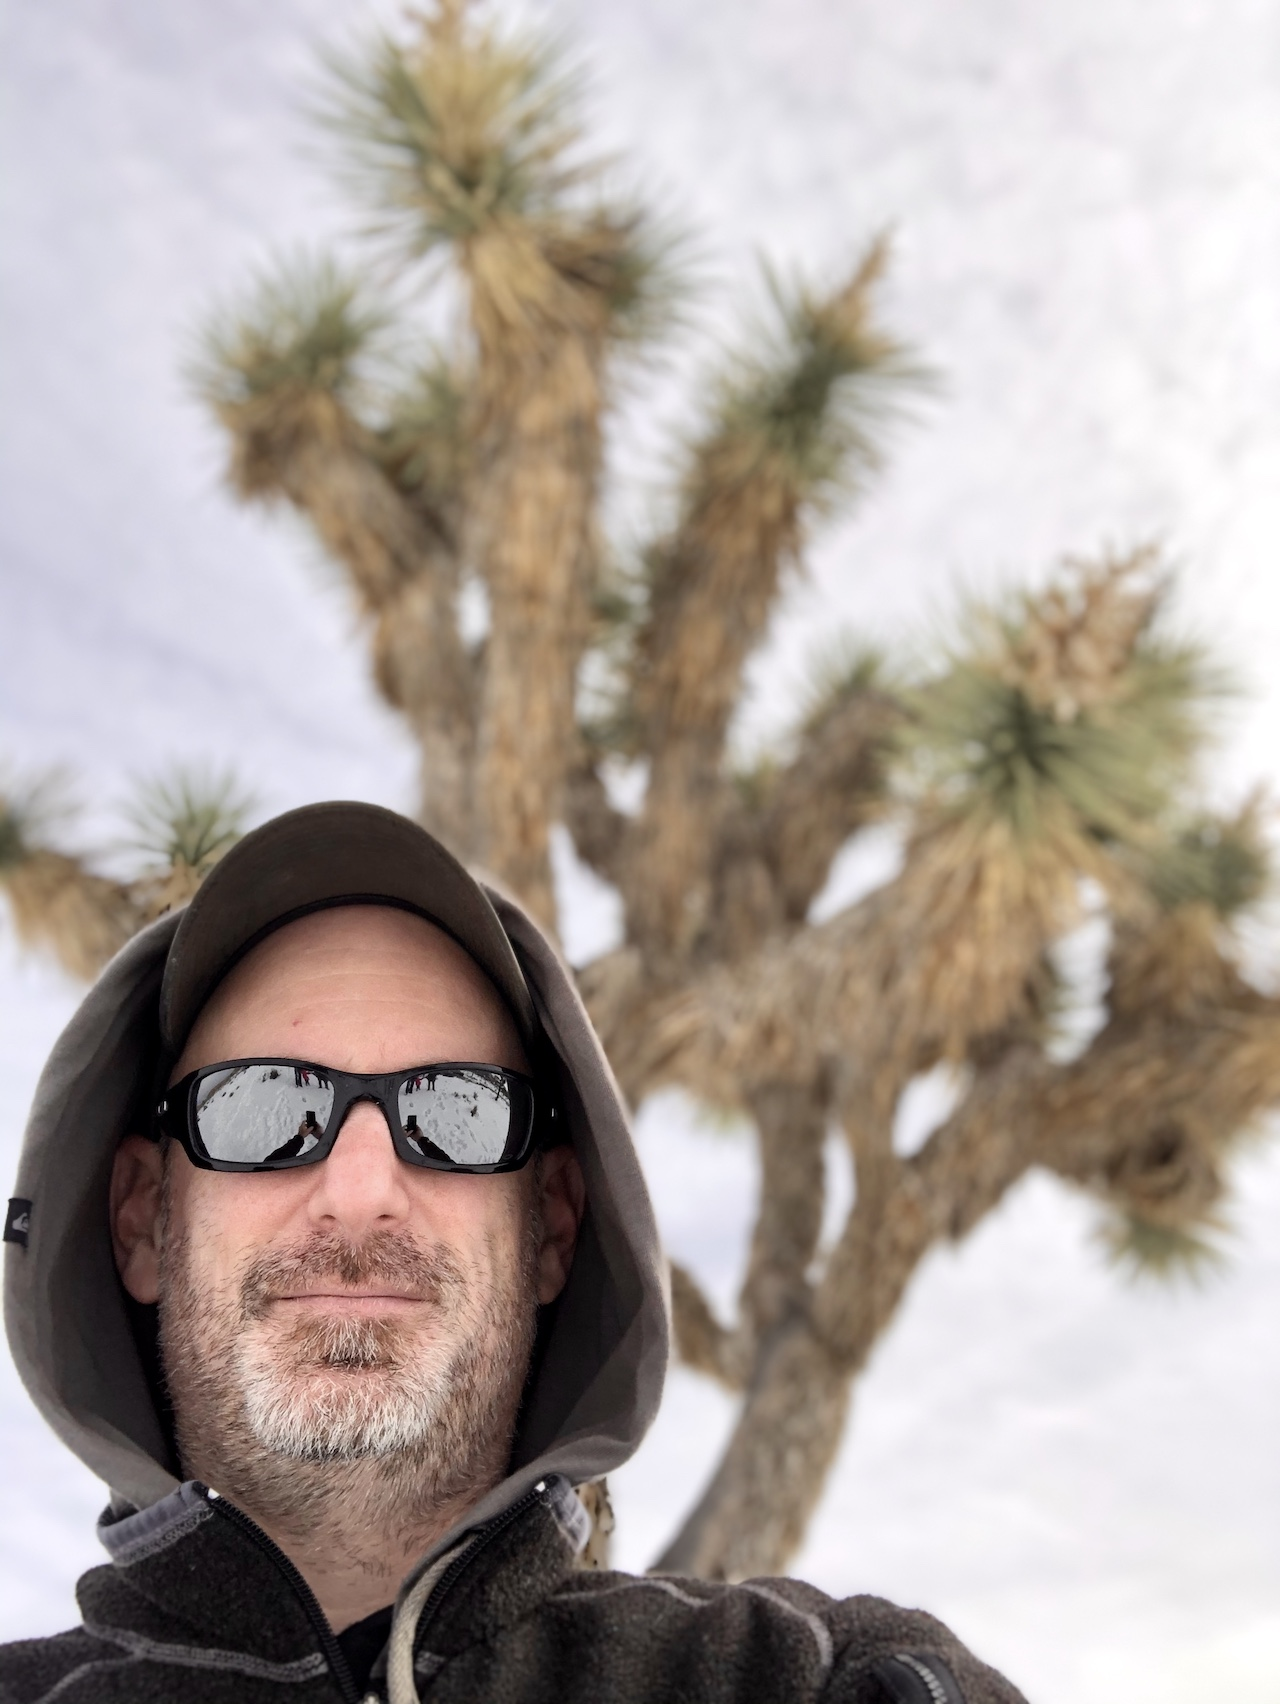
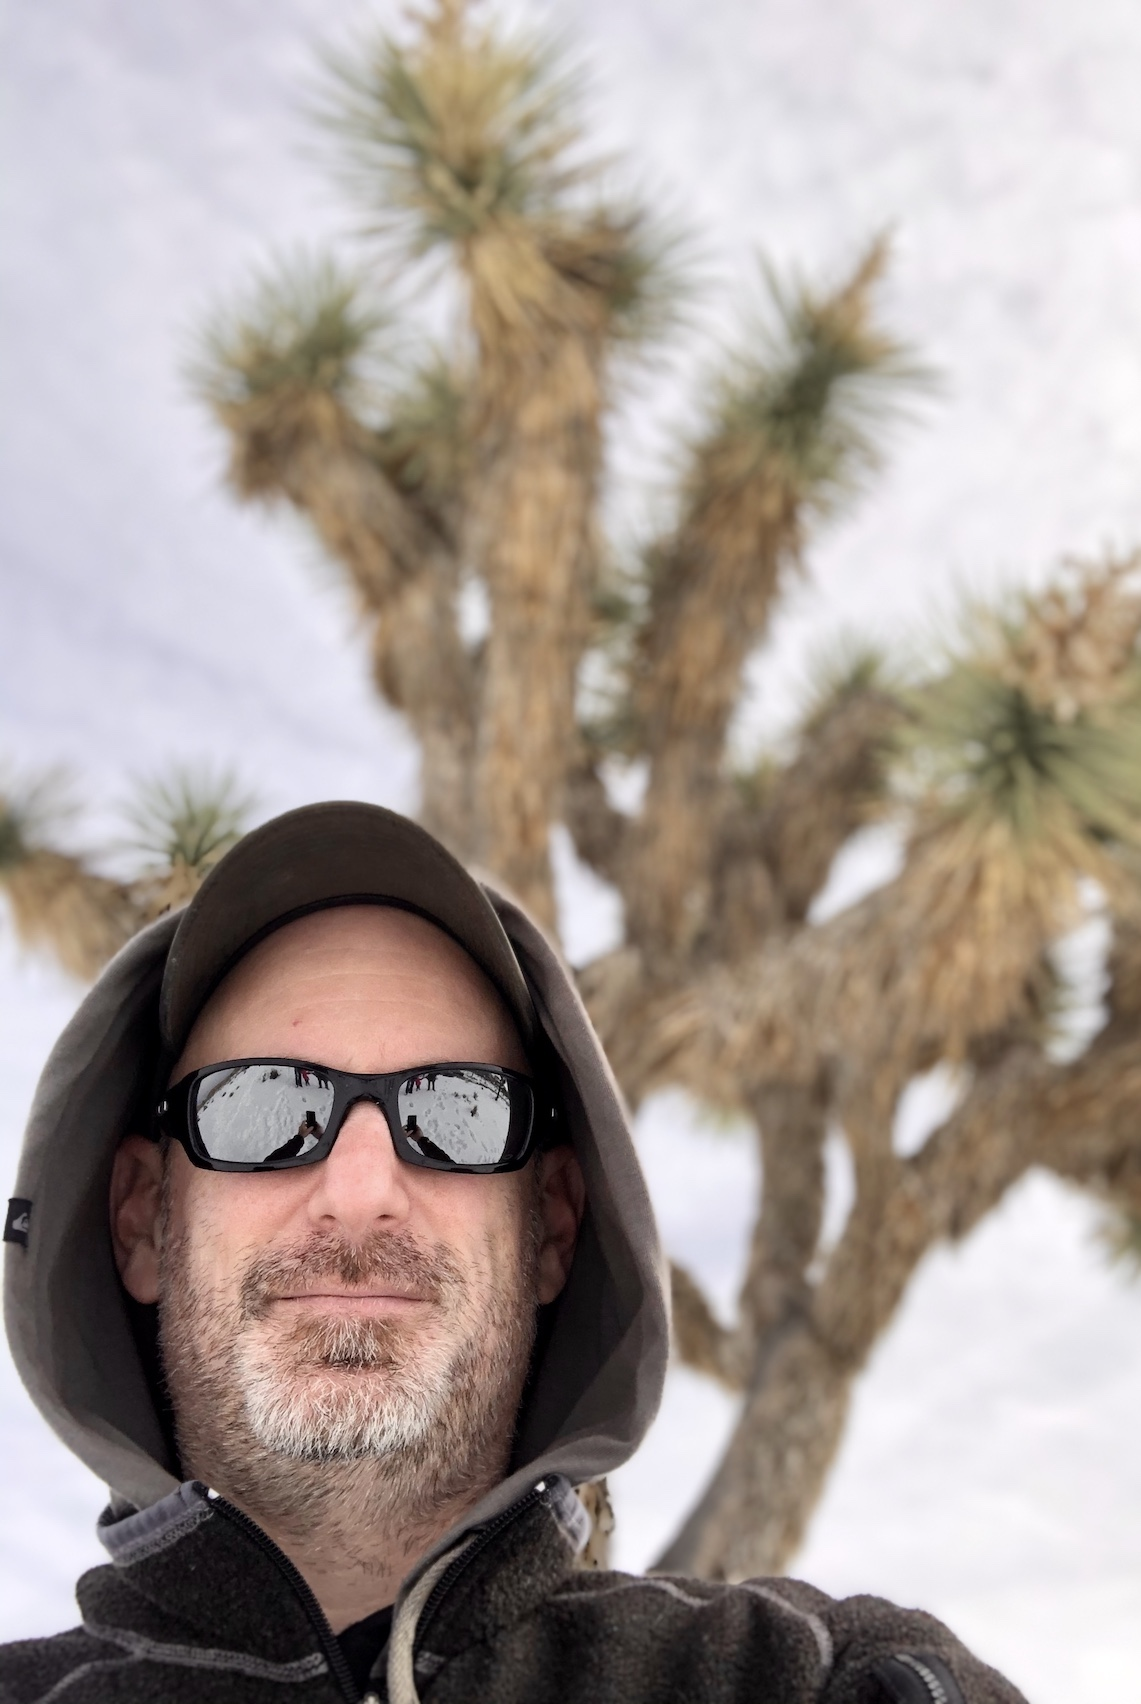
tweaks

diff --git a/_posts/2019-12-31-foresight-is-2020.md b/_posts/2019-12-31-foresight-is-2020.md
@@ -5,7 +5,7 @@ date: 2019-12-31 11:55:23 -1000
 description: Foresight is 2020
 img: joshua_cover.jpg
 fig-caption: Joshua Tree National Park
-img-pos-x: -160px
+img-pos-x: -240px
 tags: []
 ---
 A bit surprised by the very animated welcome in Facebook for this blog. I'm unsure I can live up to the expectations; but thanks for the sentiments! Just know this is going to be more of a brief recount of my experiences for posterity more than an entertaining literary excursion. Sure, now that I know more eyes are watching, I can try flex the creative muscles a bit here and there. But I'm afraid more often than not it may be a bit drab for most. 🥱
